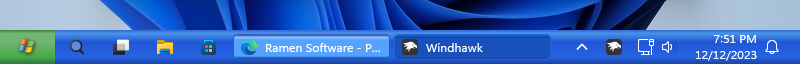
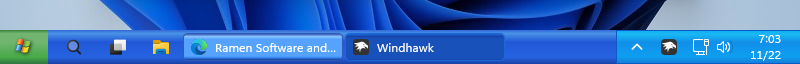
WinXP theme tray area and other small improvements

Changed region(s): [[0.0, 0.4688, 0.6875, 1.0], [0.7188, 0.4688, 1.0, 1.0]]

diff --git a/Themes/WinXP/README.md b/Themes/WinXP/README.md
@@ -46,18 +46,18 @@ The theme styles can also be imported manually. To do that, follow these steps:
   "controlStyles[0].styles[2]": "Height=Auto",
   "controlStyles[1].target": "Taskbar.ExperienceToggleButton#LaunchListButton[AutomationProperties.AutomationId=StartButton]",
   "controlStyles[1].styles[0]": "CornerRadius=0",
-  "controlStyles[1].styles[1]": "Margin=-4,0,4,0",
+  "controlStyles[1].styles[1]": "Margin=0,0,4,0",
   "controlStyles[1].styles[2]": "MaxWidth=48",
   "controlStyles[2].target": "Taskbar.ExperienceToggleButton#LaunchListButton[AutomationProperties.AutomationId=StartButton] > Taskbar.TaskListButtonPanel",
   "controlStyles[2].styles[0]": "Padding=0",
   "controlStyles[2].styles[1]": "Background:=<LinearGradientBrush StartPoint=\"0.5,0\" EndPoint=\"0.5,1\"> <GradientStop Color=\"#388238\" Offset=\"0.0\" /> <GradientStop Color=\"#71B571\" Offset=\"0.1\" /> <GradientStop Color=\"#71B571\" Offset=\"0.35\" /> <GradientStop Color=\"#47AA47\" Offset=\"0.8\" /> <GradientStop Color=\"#307443\" Offset=\"1.0\" /></LinearGradientBrush>",
+  "controlStyles[2].styles[2]": "MaxWidth=48",
   "controlStyles[3].target": "Taskbar.ExperienceToggleButton#LaunchListButton[AutomationProperties.AutomationId=StartButton] > Taskbar.TaskListButtonPanel > Border#BackgroundElement",
   "controlStyles[3].styles[0]": "Background:=<ImageBrush Stretch=\"None\" ImageSource=\"https://i.imgur.com/BvXJlkj.png\" />",
   "controlStyles[4].target": "Taskbar.ExperienceToggleButton#LaunchListButton[AutomationProperties.AutomationId=StartButton] > Taskbar.TaskListButtonPanel > Microsoft.UI.Xaml.Controls.AnimatedVisualPlayer#Icon",
   "controlStyles[4].styles[0]": "Visibility=Collapsed",
   "controlStyles[5].target": "TextBlock#LabelControl",
   "controlStyles[5].styles[0]": "Foreground=White",
-  "controlStyles[5].styles[1]": "Margin=-4,0,4,0",
   "controlStyles[6].target": "Rectangle#RunningIndicator",
   "controlStyles[6].styles[0]": "Visibility=Collapsed",
   "controlStyles[7].target": "TextBlock#TimeInnerTextBlock",
@@ -69,24 +69,20 @@ The theme styles can also be imported manually. To do that, follow these steps:
   "controlStyles[10].target": "Taskbar.TaskListLabeledButtonPanel@RunningIndicatorStates > Border#BackgroundElement",
   "controlStyles[10].styles[0]": "Background@NoRunningIndicator=Transparent",
   "controlStyles[10].styles[1]": "Background@ActiveRunningIndicator:=<LinearGradientBrush StartPoint=\"0.5,0\" EndPoint=\"0.5,1\"> <GradientStop Color=\"#1B67D7\" Offset=\"0.0\" /> <GradientStop Color=\"#1542A8\" Offset=\"0.1\" /> <GradientStop Color=\"#1951BA\" Offset=\"0.15\" /> <GradientStop Color=\"#1951BA\" Offset=\"0.95\" /> <GradientStop Color=\"#1542A8\" Offset=\"1.0\" /></LinearGradientBrush>",
-  "controlStyles[10].styles[2]": "Background:=<LinearGradientBrush StartPoint=\"0.5,0\" EndPoint=\"0.5,1\"> <GradientStop Color=\"#3358B5\" Offset=\"0.0\" /> <GradientStop Color=\"#8AC4FD\" Offset=\"0.1\" /> <GradientStop Color=\"#3B8FEF\" Offset=\"0.2\" /> <GradientStop Color=\"#56A3FF\" Offset=\"0.85\" /> <GradientStop Color=\"#378DF6\" Offset=\"0.9\" /> <GradientStop Color=\"#163E95\" Offset=\"1.0\" /></LinearGradientBrush>",
-  "controlStyles[10].styles[3]": "BorderThickness@ActiveRunningIndicator=1.5",
+  "controlStyles[10].styles[2]": "Background:=<LinearGradientBrush StartPoint=\"0.5,0\" EndPoint=\"0.5,1\"> <GradientStop Color=\"#3358B5\" Offset=\"0.0\" /> <GradientStop Color=\"#8AC4FD\" Offset=\"0.1\" /> <GradientStop Color=\"#56A3FF\" Offset=\"0.2\" /> <GradientStop Color=\"#56A3FF\" Offset=\"0.85\" /> <GradientStop Color=\"#378DF6\" Offset=\"0.9\" /> <GradientStop Color=\"#163E95\" Offset=\"1.0\" /></LinearGradientBrush>",
+  "controlStyles[10].styles[3]": "BorderThickness@ActiveRunningIndicator=1",
   "controlStyles[10].styles[4]": "BorderBrush@NoRunningIndicator=Transparent",
   "controlStyles[10].styles[5]": "BorderBrush@ActiveRunningIndicator=#1B67D7",
   "controlStyles[10].styles[6]": "BorderBrush=#3358B5",
-  "controlStyles[11].target": "Grid#RootGrid > Grid",
-  "controlStyles[11].styles[0]": "Margin=12,0,0,0",
-  "controlStyles[12].target": "Taskbar.TaskListButton",
-  "controlStyles[12].styles[0]": "Margin=-1.5",
-  "controlStyles[13].target": "Grid#SystemTrayFrameGrid",
-  "controlStyles[13].styles[0]": "Background:=<LinearGradientBrush StartPoint=\"0.5,0.42\" EndPoint=\"0.5,0.75\"> <GradientStop Color=\"#3168d5\" Offset=\"0.0\" /> <GradientStop Color=\"#0C40B1\" Offset=\"0.5\" /> <GradientStop Color=\"#1941A5\" Offset=\"0.35\" /> <GradientStop Color=\"#1941A5\" Offset=\"0.8\" /> <GradientStop Color=\"#1941A5\" Offset=\"1.0\" /></LinearGradientBrush>",
-  "controlStyles[13].styles[1]": "BorderThickness=1,0,0,0",
-  "controlStyles[13].styles[2]": "BorderBrush=#2244BB",
-  "controlStyles[13].styles[3]": "Padding=4,0,0,0",
-  "controlStyles[14].target": "Taskbar.TaskListButton#TaskListButton > Taskbar.TaskListLabeledButtonPanel#IconPanel@RunningIndicatorStates > Windows.UI.Xaml.Controls.Image#Icon",
-  "controlStyles[14].styles[0]": "Height@NoRunningIndicator=16",
-  "controlStyles[15].target": "Grid#OverflowRootGrid > Border",
-  "controlStyles[15].styles[0]": "Background:=<LinearGradientBrush StartPoint=\"0.5,0\" EndPoint=\"0.5,1\"> <GradientStop Color=\"#3168d5\" Offset=\"0.0\" /> <GradientStop Color=\"#4993E6\" Offset=\"0.1\" /> <GradientStop Color=\"#2157D7\" Offset=\"0.35\" /> <GradientStop Color=\"#2663E0\" Offset=\"0.8\" /> <GradientStop Color=\"#1941A5\" Offset=\"1.0\" /></LinearGradientBrush>"
+  "controlStyles[11].target": "Taskbar.TaskListButton",
+  "controlStyles[11].styles[0]": "Margin=-1",
+  "controlStyles[12].target": "Grid#SystemTrayFrameGrid",
+  "controlStyles[12].styles[0]": "Background:=<LinearGradientBrush StartPoint=\"0.5,0\" EndPoint=\"0.5,1\"> <GradientStop Color=\"#16ADF0\" Offset=\"0.0\" /> <GradientStop Color=\"#19B9F3\" Offset=\"0.1\" /> <GradientStop Color=\"#118FE9\" Offset=\"0.35\" /> <GradientStop Color=\"#0E9EF0\" Offset=\"0.8\" /> <GradientStop Color=\"#1580D9\" Offset=\"1.0\" /></LinearGradientBrush>",
+  "controlStyles[12].styles[1]": "BorderThickness=1,1,0,1",
+  "controlStyles[12].styles[2]": "BorderBrush=#095BC9",
+  "controlStyles[12].styles[3]": "Padding=4,0,0,0",
+  "controlStyles[13].target": "Grid#OverflowRootGrid > Border",
+  "controlStyles[13].styles[0]": "Background:=<LinearGradientBrush StartPoint=\"0.5,0\" EndPoint=\"0.5,1\"> <GradientStop Color=\"#3168d5\" Offset=\"0.0\" /> <GradientStop Color=\"#4993E6\" Offset=\"0.1\" /> <GradientStop Color=\"#2157D7\" Offset=\"0.35\" /> <GradientStop Color=\"#2663E0\" Offset=\"0.8\" /> <GradientStop Color=\"#1941A5\" Offset=\"1.0\" /></LinearGradientBrush>"
 }
 ```
 </details>
